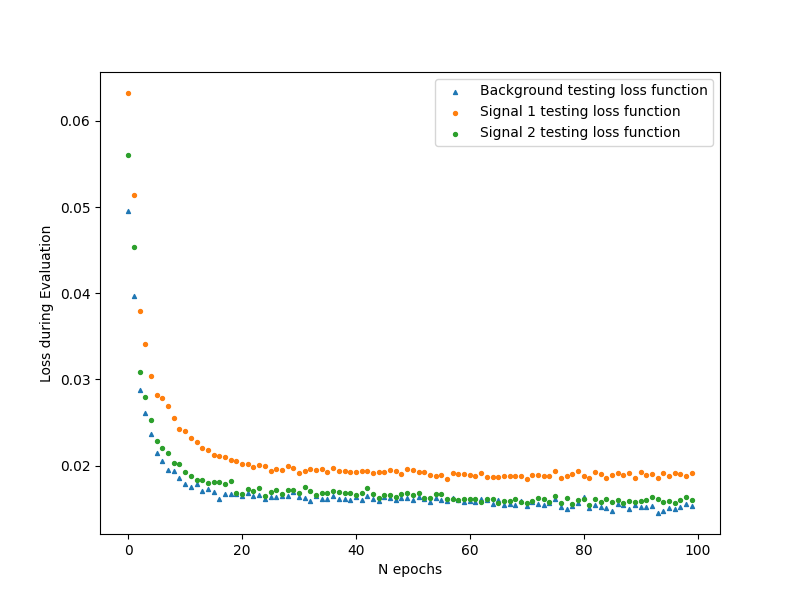
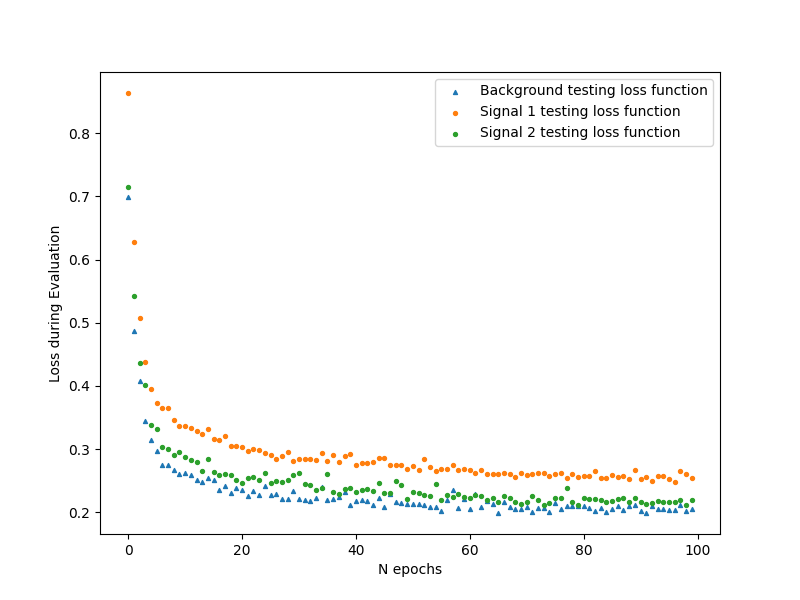
Training with standard scaling and 84, 14 layer dimensions

diff --git a/autoencoder.py b/autoencoder.py
@@ -48,8 +48,8 @@ class AutoEncoder(nn.Module):
             nn.Linear(latent_dim, mid_dim),
             nn.ReLU(),
             nn.Linear(mid_dim, input_dim),
-            # nn.ReLU() # MinMax Scaling 
-            nn.ELU() # Standard Scaling
+            nn.ReLU() # MinMax Scaling 
+            # nn.ELU() # Standard Scaling
         )
 
         # Initialize decoder weights with encoder weights
